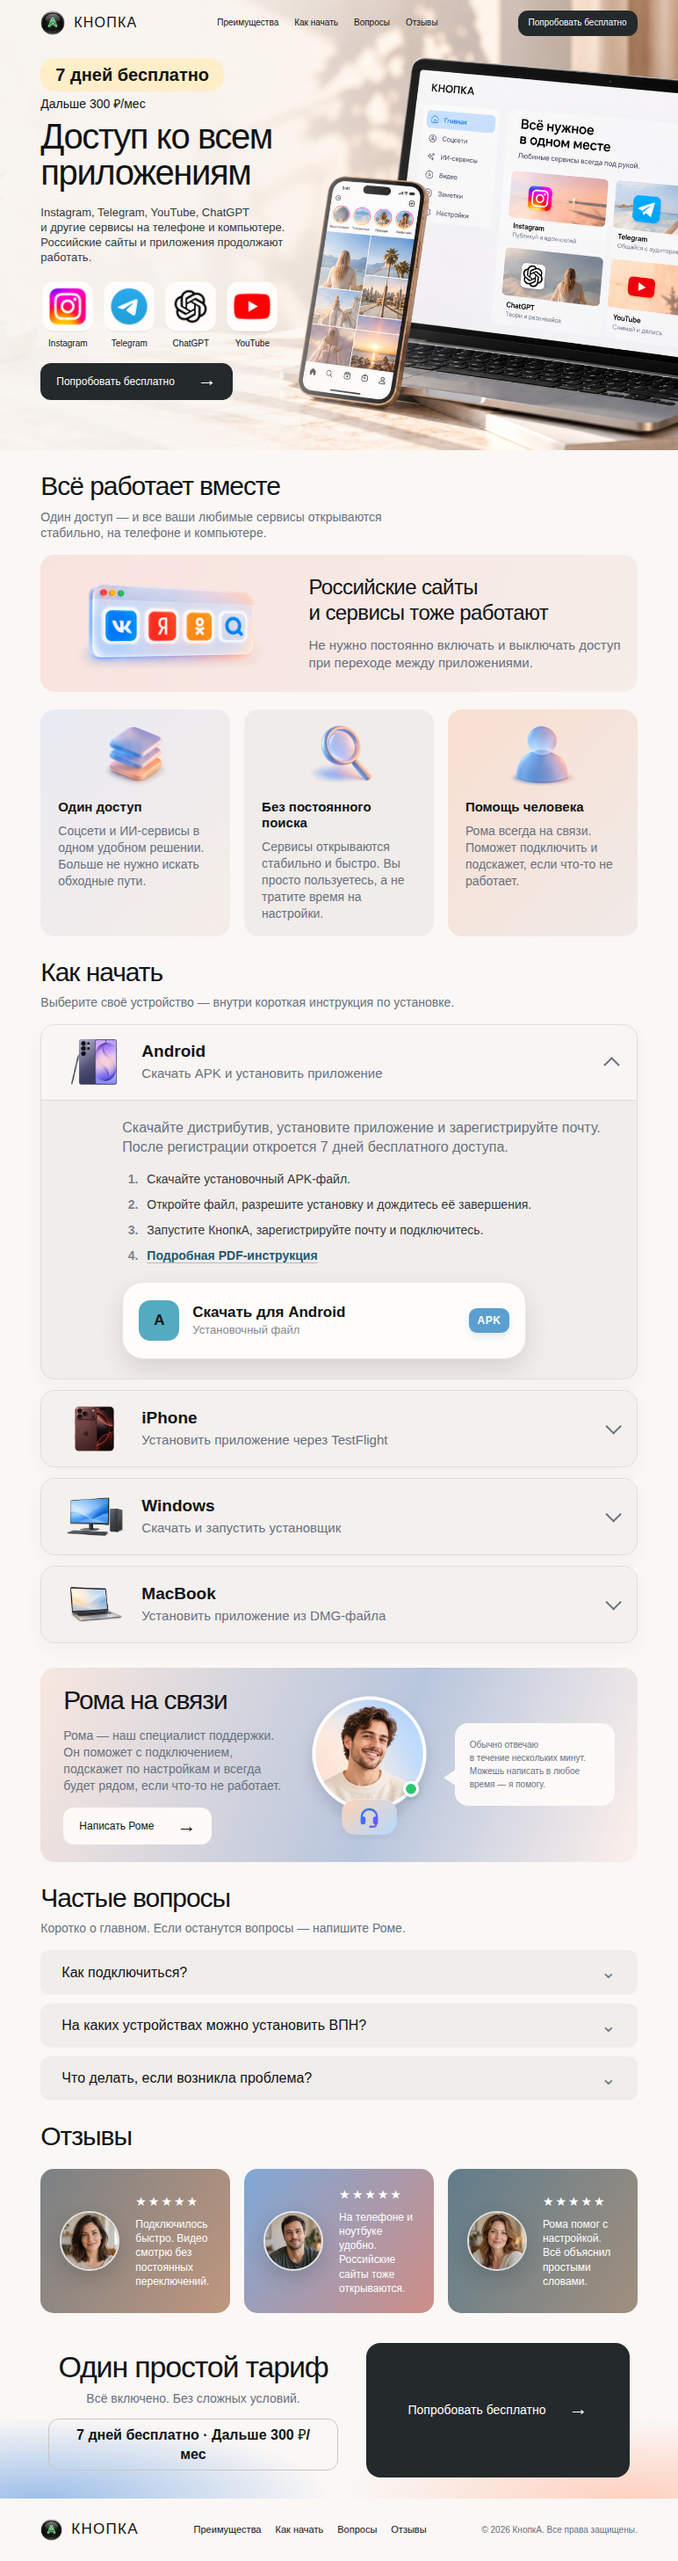
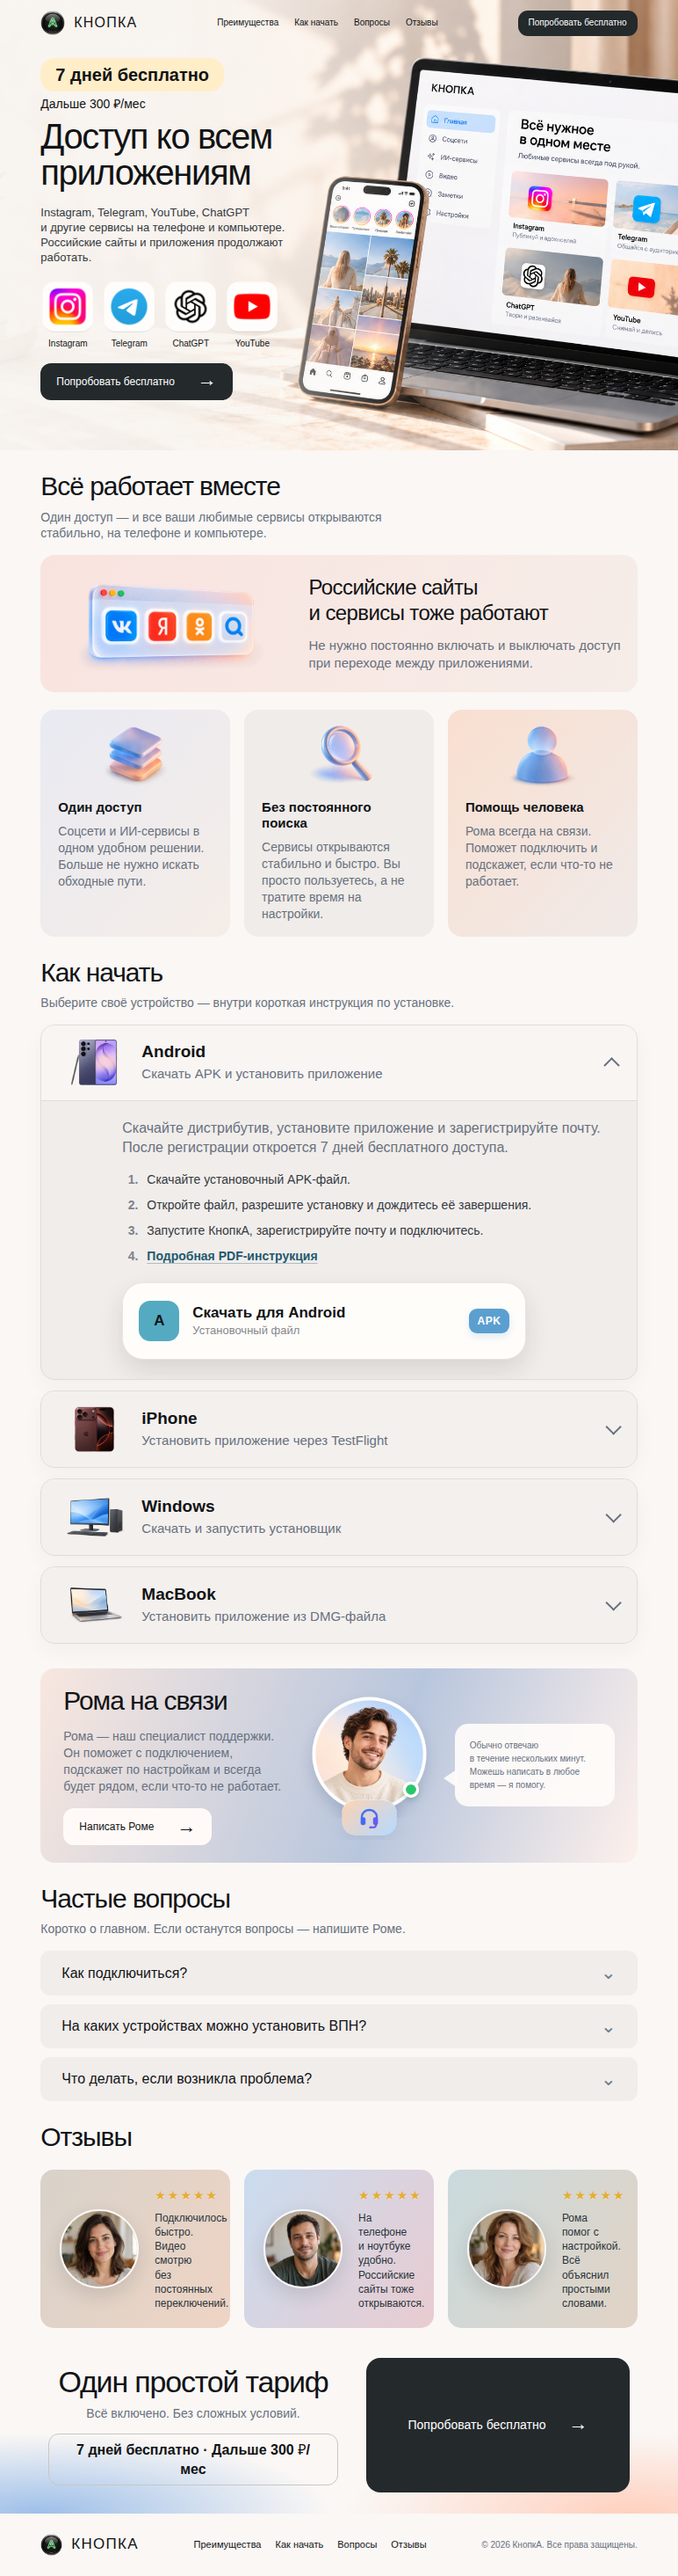
design: soften review cards and enlarge portraits

diff --git a/Design2.0/version-001-mvp/site/source/styles.css b/Design2.0/version-001-mvp/site/source/styles.css
@@ -45,10 +45,12 @@
 
 /* Review portraits and compact tariff layout for the current visual prototype. */
 .review-grid{margin-top:20px}
-.review-grid article{display:grid;grid-template-columns:68px minmax(0,1fr);align-items:center;gap:18px;padding:20px 22px}
-.review-avatar{width:68px;height:68px;object-fit:cover;border-radius:50%;border:2px solid rgba(255,255,255,.75);box-shadow:0 8px 22px rgba(31,38,43,.2)}
-.review-grid p{margin-top:8px}
-.stars{display:block}
+.review-grid article{display:grid;grid-template-columns:90px minmax(0,1fr);align-items:center;gap:18px;padding:20px 22px;color:#29333a;background:linear-gradient(120deg,#d8d2ca,#efd4c4)}
+.review-grid article:nth-child(2){background:linear-gradient(125deg,#c9dcef,#e9cbd0)}
+.review-grid article:nth-child(3){background:linear-gradient(120deg,#c9dadd,#e2d3c5)}
+.review-avatar{width:90px;height:90px;object-fit:cover;border-radius:50%;border:2px solid rgba(255,255,255,.82);box-shadow:0 8px 22px rgba(31,38,43,.14)}
+.review-grid p{margin-top:8px;color:inherit}
+.stars{display:block;color:#e7ad32;text-shadow:0 1px 0 rgba(255,255,255,.35)}
 .tariff{padding:24px 0}
 @media(min-width:701px) and (max-width:1000px){.tariff-layout{grid-template-columns:minmax(0,330px) minmax(220px,300px);justify-content:center;gap:32px}}
 @media(prefers-reduced-motion:reduce){.platform-accordion summary::after,.platform-download{transition:none}.platform-download:hover{transform:none}}
